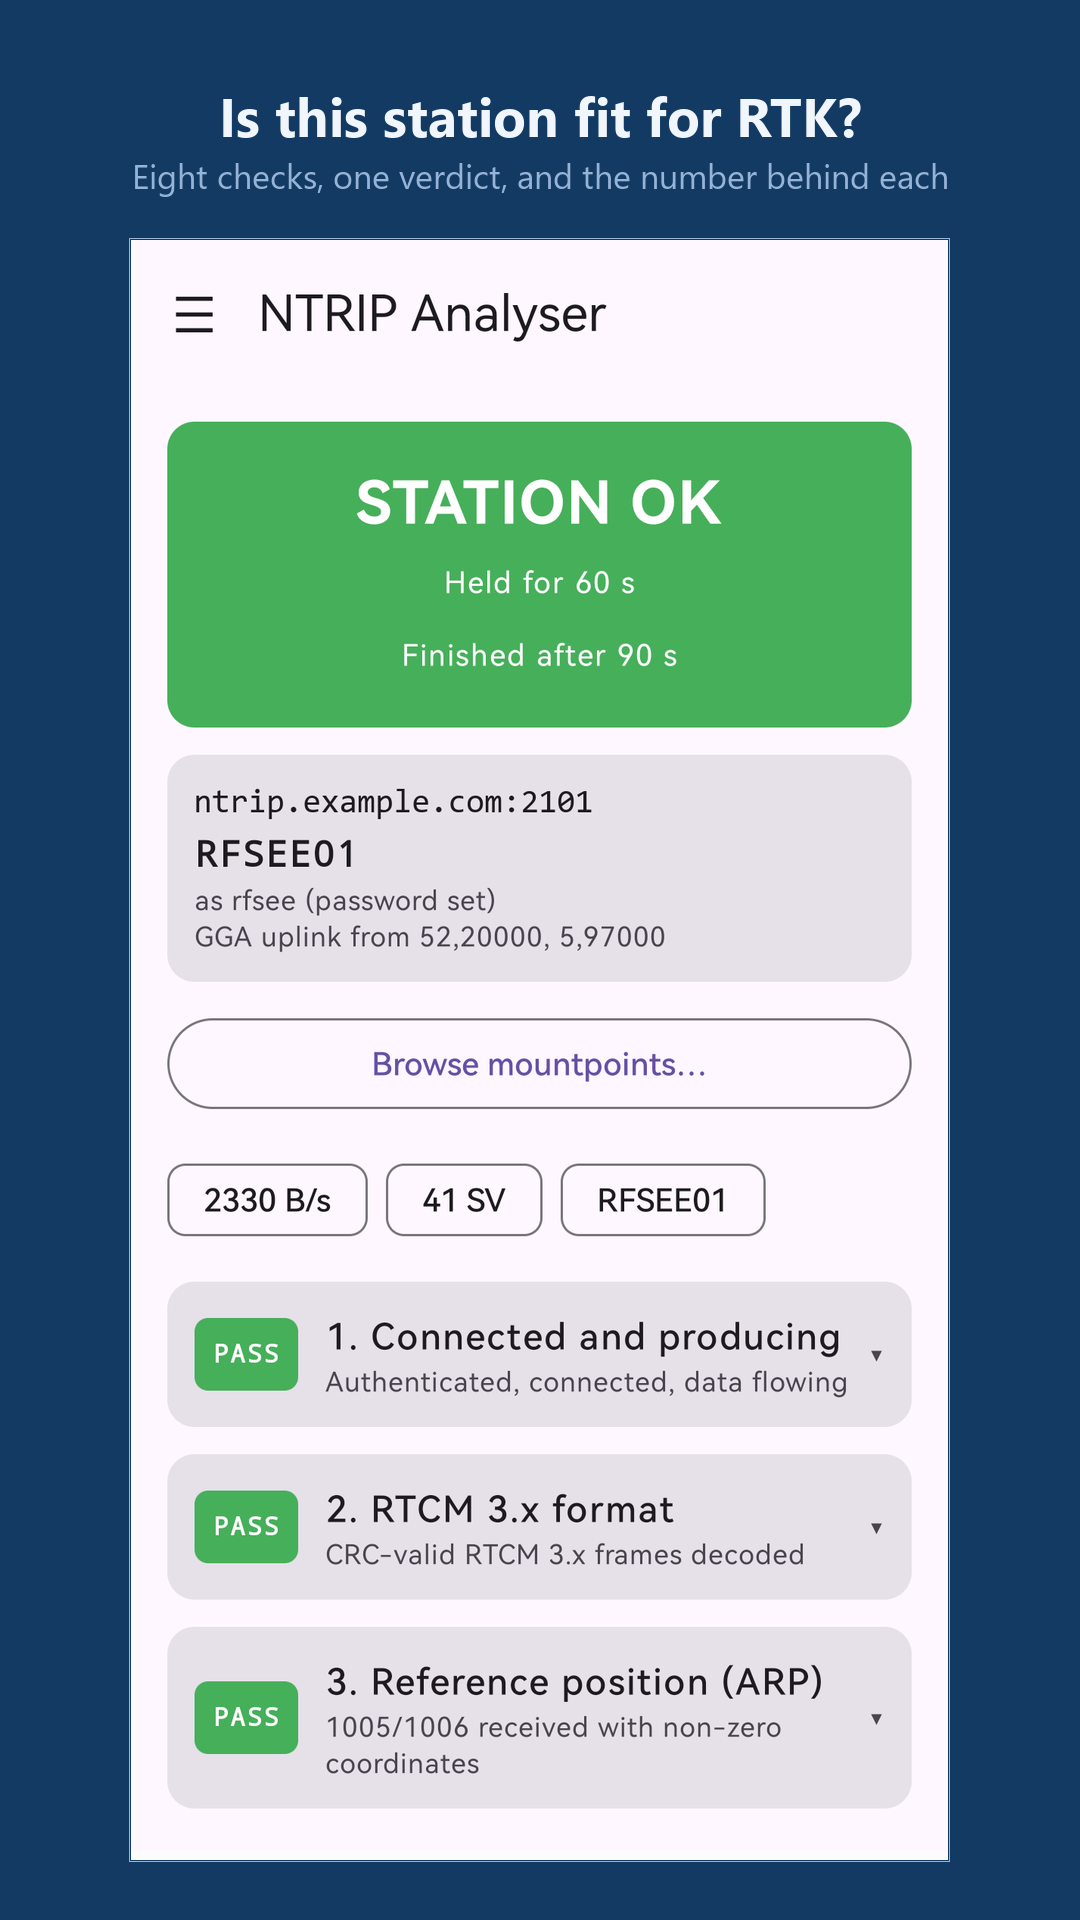
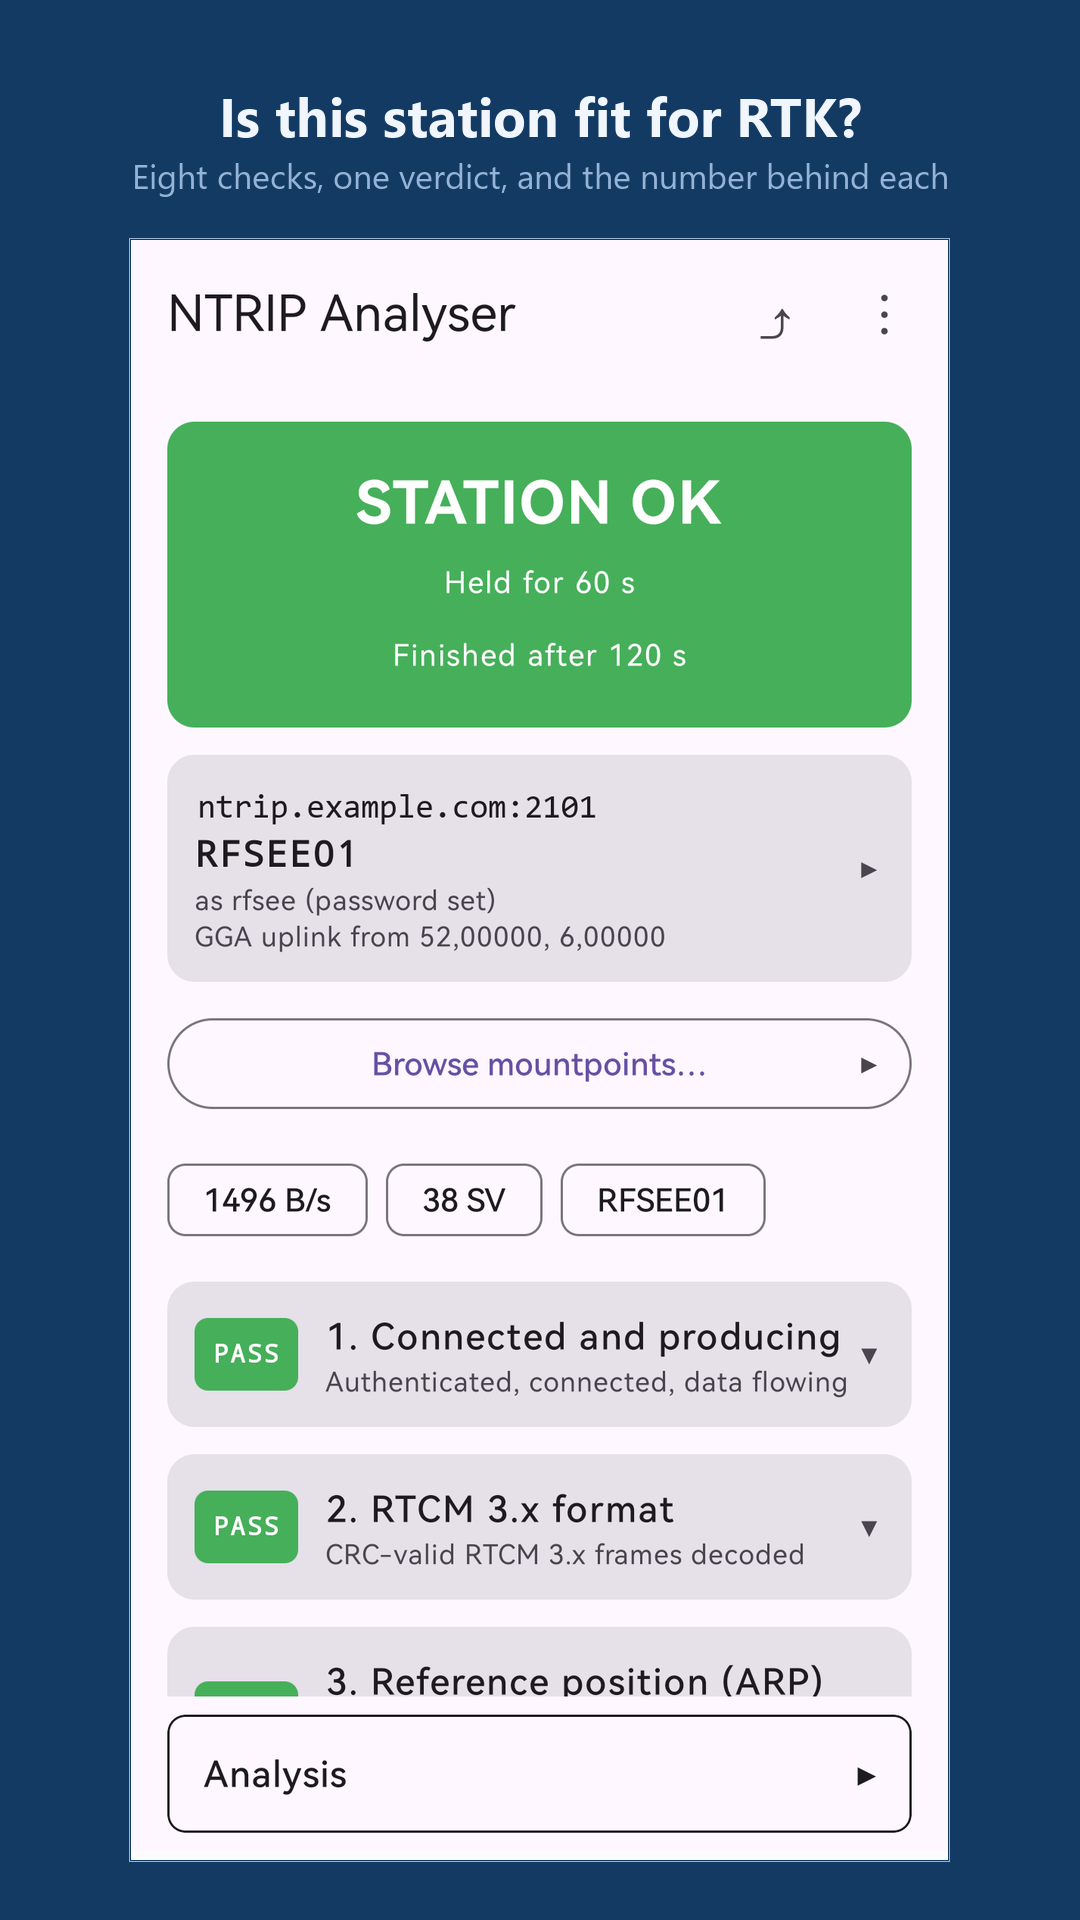
Re-take free's listing screenshots, with orbits it can place
Free's first set was honest but wrong for its caption: RFSEE01 broadcasts
no orbits, so the sky view read "21 of 38 satellites shown - phone GNSS"
under a caption promising "placed from broadcast orbits, not from this
phone". With a navigation file imported the same view reads "37 of 38 -
navigation file", and the C/N0 plot goes from 2184 samples to 4070,
because a satellite it cannot place is a sample it cannot draw.

All four come from one run: STATION OK, held 60 s, finished after 120 s,
1496 B/s, 38 SV.

The tool's free boxes are measured for v3 rather than inherited. Both
editions' connection tiles now sit in the same place, since both verdict
banners carry the same two lines; their sky footers do not, because
free's analysis screen carries a two-line note where pro carries a
button, and its footer sits 22 px lower.

diff --git a/tools/make_store_shots.py b/tools/make_store_shots.py
@@ -111,13 +111,18 @@ REDACTIONS = {
     },
     'free': {
         'main': [
-            ((79, 806, 466, 864), 'ntrip.example.com:2101', True, 44,
+            # v3 put the two editions' tiles in the same place: both
+            # verdict banners now carry the same two lines, so the box
+            # that free needed 54 px higher than pro's in v2 is the same
+            # box in v3. Measured, not assumed.
+            ((84, 818, 470, 866), 'ntrip.example.com:2101', True, 44,
              TILE_BG, TILE_INK),
         ],
-        # Same geometry in both editions: the footer is drawn by the same
-        # composable, below a plot of fixed height.
+        # *Not* the same geometry as pro, which v2 believed. Free's
+        # analysis screen carries a two-line note where pro carries a
+        # button, and the footer ends up 22 px lower.
         'sky': [
-            ((368, 2058, 812, 2108), ARP_HIDDEN, True, 40,
+            ((368, 2080, 812, 2130), ARP_HIDDEN, True, 40,
              PAGE_BG, PAGE_INK),
         ],
     },
